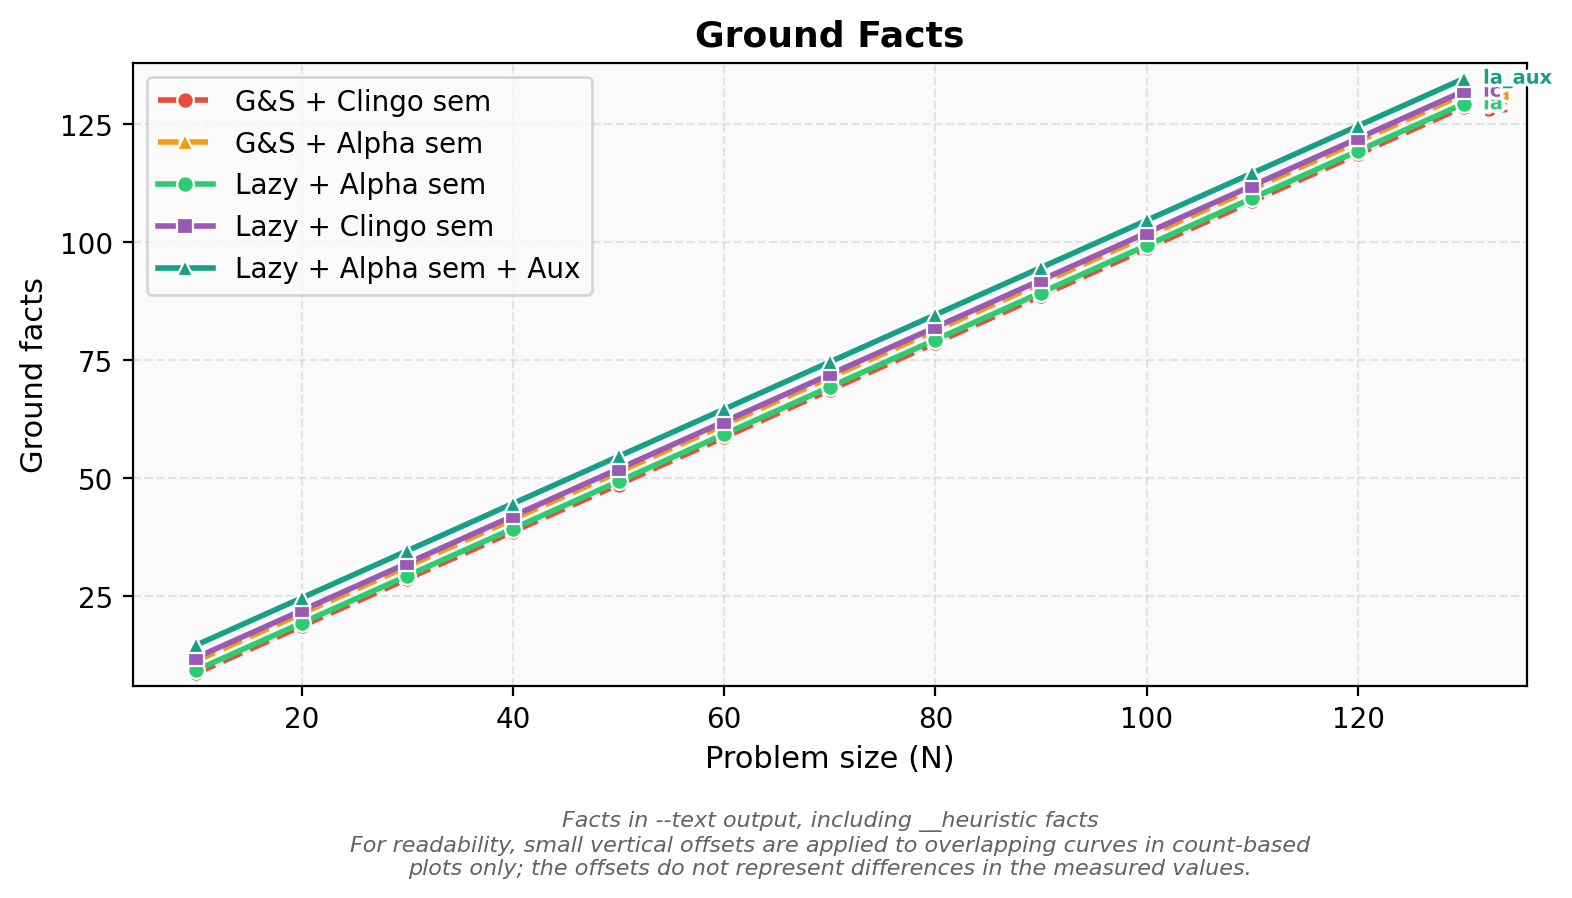
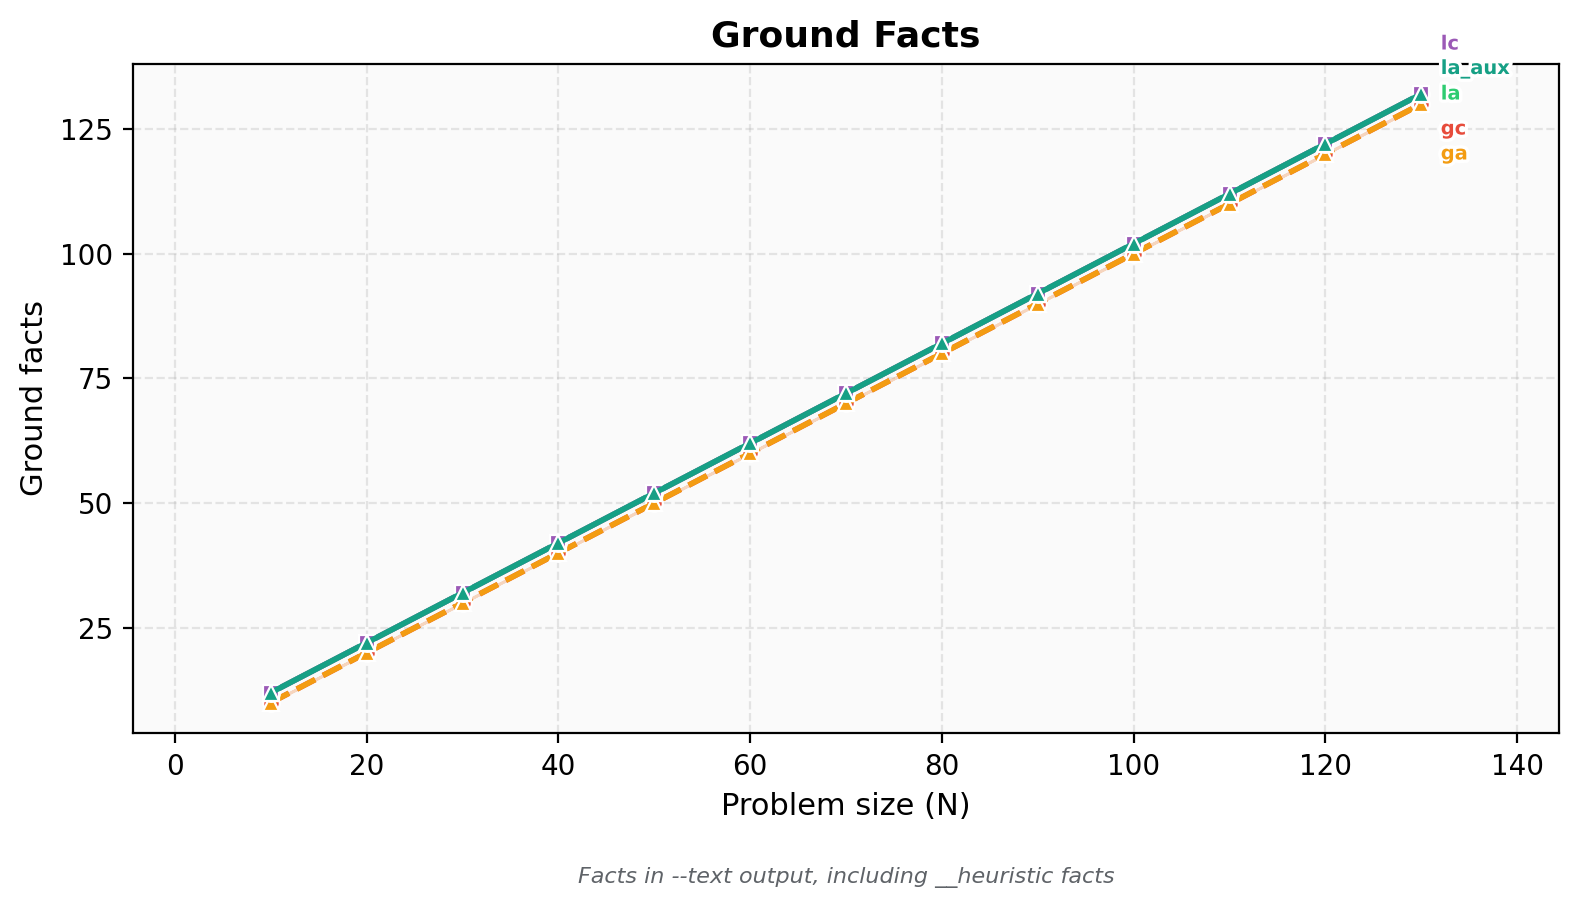
modifiche ai grafici

diff --git a/test_folder/tools/gen_graphs.py b/test_folder/tools/gen_graphs.py
@@ -453,12 +453,15 @@ OVERLAP_CAPTION = (
     "the measured values."
 )
 OFFSET_METRICS = {
+    "variables",
+}
+ENDPOINT_LABEL_METRICS = {
     "ground_lazy_heuristic_facts",
     "ground_heuristics",
     "combined_heuristics",
     "ground_facts",
-    "variables",
 }
+ENDPOINT_LABEL_MIN_GAP_POINTS = 9.0
 VARIANT_LINESTYLES = [
     "-",
     "--",
@@ -595,6 +598,131 @@ def _variant_linestyle(variant: str, theme: dict):
 def _endpoint_label(theme: dict, variant: str) -> str:
 
     return _variant_dir_identifier(theme, variant)
+
+
+def _has_positive_metric(stats: dict, variant: str, metric: str) -> bool:
+
+    data = stats.get(variant, {}).get(metric)
+    if not data:
+        return False
+    return any(value > 0 for value in data.get("mean", []))
+
+
+def _include_variant_for_metric(stats: dict, variant: str, metric: str) -> bool:
+
+    if metric == "ground_heuristics":
+        return _has_positive_metric(stats, variant, "ground_heuristics")
+    if metric == "ground_lazy_heuristic_facts":
+        return _has_positive_metric(stats, variant, "ground_lazy_heuristic_facts")
+    if metric == "combined_heuristics":
+        return (
+            _has_positive_metric(stats, variant, "ground_heuristics") or
+            _has_positive_metric(stats, variant, "ground_lazy_heuristic_facts")
+        )
+    return True
+
+
+def _endpoint_label_offsets(ax, series) -> dict:
+
+    endpoints = []
+    for item in series:
+        points = _finite_xy(item["x"], item["y"])
+        if not points:
+            continue
+        x, y = points[-1]
+        _, y_px = ax.transData.transform((x, y))
+        endpoints.append((y_px, item["key"]))
+
+    offsets = {item["key"]: 0.0 for item in series}
+    if not endpoints:
+        return offsets
+
+    point_to_px = ax.figure.dpi / 72.0
+    min_gap_px = ENDPOINT_LABEL_MIN_GAP_POINTS * point_to_px
+    endpoints.sort()
+
+    groups = []
+    current = [endpoints[0]]
+    for endpoint in endpoints[1:]:
+        if endpoint[0] - current[-1][0] <= min_gap_px:
+            current.append(endpoint)
+        else:
+            groups.append(current)
+            current = [endpoint]
+    groups.append(current)
+
+    for group in groups:
+        if len(group) <= 1:
+            continue
+        center = (len(group) - 1) / 2.0
+        for idx, (_, key) in enumerate(group):
+            offsets[key] = (idx - center) * ENDPOINT_LABEL_MIN_GAP_POINTS
+
+    return offsets
+
+
+def _annotate_metric_endpoints(ax, series, theme, metric: str):
+
+    if metric not in ENDPOINT_LABEL_METRICS:
+        return
+
+    try:
+        import matplotlib.patheffects as path_effects
+    except ImportError:
+        path_effects = None
+
+    offsets = _endpoint_label_offsets(ax, series)
+
+    for item in series:
+        points = _finite_xy(item["x"], item["y"])
+        if not points:
+            continue
+
+        x, y = points[-1]
+        text = ax.annotate(
+            _endpoint_label(theme, item["variant"]),
+            xy=(x, y),
+            xytext=(7, offsets.get(item["key"], 0.0)),
+            textcoords="offset points",
+            color=item.get("color"),
+            fontsize=item.get("fontsize", 7),
+            fontweight="bold",
+            va="center",
+            ha="left",
+            clip_on=False,
+            zorder=8,
+        )
+        if path_effects is not None:
+            text.set_path_effects([
+                path_effects.Stroke(linewidth=2.5, foreground="white"),
+                path_effects.Normal(),
+            ])
+
+
+def _expand_flat_integer_axis(ax, series, metric: str):
+
+    if metric not in INTEGER_METRICS:
+        return
+
+    values = [
+        y
+        for item in series
+        for _, y in _finite_xy(item["x"], item["y"])
+    ]
+    if not values:
+        return
+
+    min_value = min(values)
+    max_value = max(values)
+    if min_value != max_value:
+        return
+
+    if min_value >= 0:
+        upper = max(max_value + 1.0, max_value * 1.2, 1.0)
+        ax.set_ylim(0.0, upper)
+    else:
+        pad = max(abs(min_value) * 0.1, 1.0)
+        ax.set_ylim(min_value - pad, max_value + pad)
 
 
 def _annotate_overlap_endpoints(ax, series, offsets, *, label_fn):
@@ -1037,6 +1165,8 @@ def generate_graphs(
         series = []
 
         for variant in variants:
+            if not _include_variant_for_metric(stats, variant, metric):
+                continue
             if metric not in stats[variant]:
                 continue
 
@@ -1074,6 +1204,11 @@ def generate_graphs(
                             alpha=VARIANT_FILL_ALPHA, color=color,
                             transform=transform, zorder=2)
 
+        _expand_flat_integer_axis(ax, series, metric)
+        if metric in ENDPOINT_LABEL_METRICS:
+            ax.margins(x=0.12)
+            _annotate_metric_endpoints(ax, series, theme, metric)
+
         _annotate_overlap_endpoints(
             ax,
             series,
@@ -1086,7 +1221,7 @@ def generate_graphs(
         ax.set_title(_format_title(metric, config["title"]))
         ax.set_xlabel(xlabel)
         ax.set_ylabel(config["ylabel"])
-        if has_data:
+        if has_data and metric not in ENDPOINT_LABEL_METRICS:
             ax.legend(loc="upper left")
 
         _apply_y_axis_format(ax, metric)
@@ -1192,6 +1327,8 @@ def _generate_single_chart(stats, graphs_dir, metric, title, ylabel, description
     series = []
 
     for variant in variants:
+        if not _include_variant_for_metric(stats, variant, metric):
+            continue
         if metric not in stats[variant]:
             continue
         data = stats[variant][metric]
@@ -1228,6 +1365,11 @@ def _generate_single_chart(stats, graphs_dir, metric, title, ylabel, description
                         alpha=VARIANT_FILL_ALPHA, color=color,
                         transform=transform, zorder=2)
 
+    _expand_flat_integer_axis(ax, series, metric)
+    if metric in ENDPOINT_LABEL_METRICS:
+        ax.margins(x=0.12)
+        _annotate_metric_endpoints(ax, series, theme, metric)
+
     _annotate_overlap_endpoints(
         ax,
         series,
@@ -1241,7 +1383,8 @@ def _generate_single_chart(stats, graphs_dir, metric, title, ylabel, description
     ax.set_xlabel(xlabel, fontsize=11)
     ax.set_ylabel(ylabel, fontsize=11)
     if has_data:
-        ax.legend(fontsize=10)
+        if metric not in ENDPOINT_LABEL_METRICS:
+            ax.legend(fontsize=10)
     else:
         ax.text(0.5, 0.5, "No data", transform=ax.transAxes,
                 ha="center", va="center", fontsize=13, color="#AAA")
